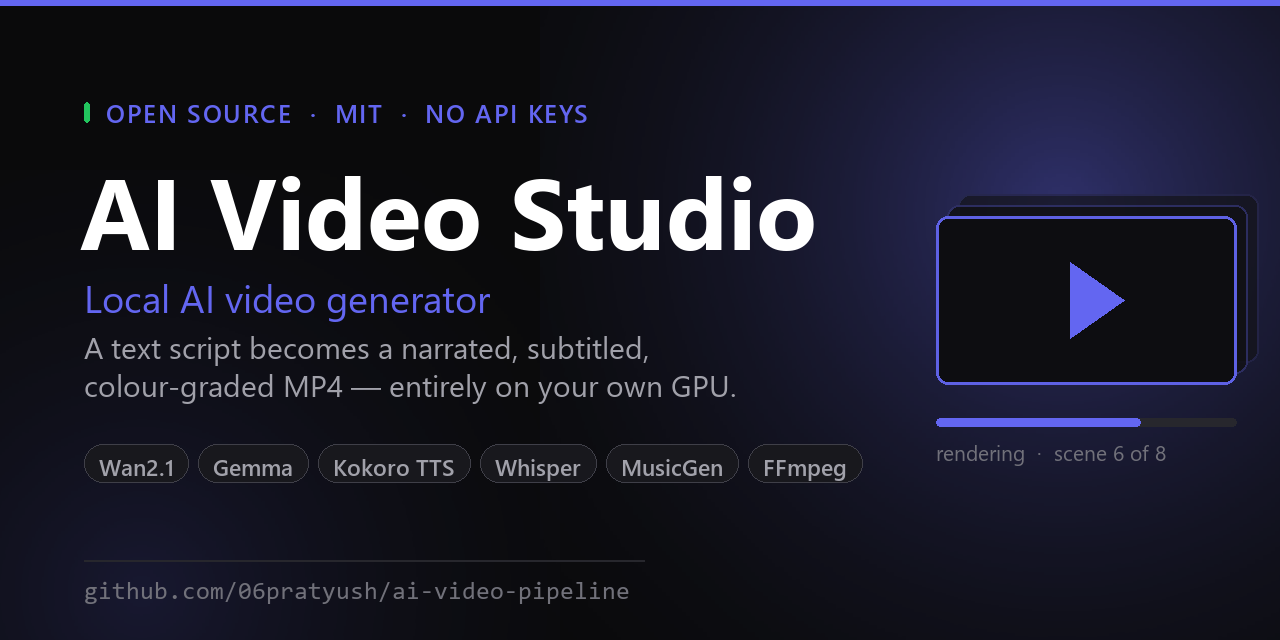
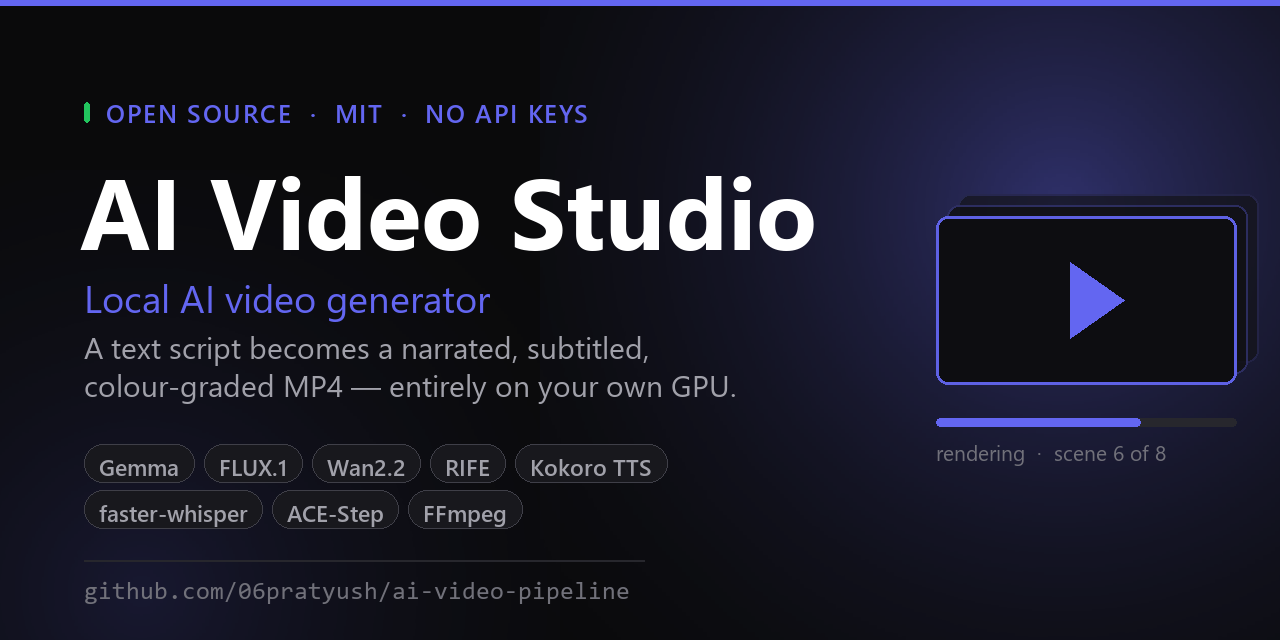
Bring the repository's public face up to v2
v2 changed the models, the quality path and what a render costs, but only the
top of the README was rewritten to match. Everything a visitor meets before the
README - the description, the topics, the social card, the release page - and
everything below the fold in the README still described v1.

The worst of it was not the stale model names. The install section and "What it
does" both promised a 5-15 minute render, three screens below a table in the
same file measuring 2 h 35 min for the sample film. The download filenames were
2.0.0 and three of the five matched no asset of any release.

In the README: the card is now the cover image; the badge, footer and download
block match the shipped 2.0.1; "Pro Quality Layer" and the Quality Settings
table carry the v2 stages with their measured costs; render time is the figure
this project actually measured. MusicGen is described as demoted to a fallback
rather than removed, because music_client.py says exactly that and
musicgen_client.py is still there.

The new "Future work" section is the part worth reviewing. Four areas - Skills
for AI, styles and looks, image generation, video generation - each a table of
what is wanted against why it is still open, citing GAP-05, GAP-08 and GAP-09
and the defects behind them: Kontext defending the reference framing, digits
lost in long numerals, the prop that drifted colour, the 4.8 Hz camera push
that cancelled RIFE. Nothing in it is aspirational; every line is a limitation
[…]

Changed region(s): [[0.0625, 0.6875, 0.5625, 0.8438], [0.5938, 0.7188, 0.6875, 0.75]]

diff --git a/.github/social-preview.py b/.github/social-preview.py
@@ -1,6 +1,13 @@
 #!/usr/bin/env python
 # -*- coding: utf-8 -*-
-"""Render the GitHub social preview card for AI Video Studio (1280x640)."""
+"""Render the AI Video Studio brand card (1280x640).
+
+One image, two jobs: it is the GitHub social preview (Settings -> General ->
+Social preview, which has no API, so the upload stays manual) and the README
+cover. Keeping both from one generator means the model chips can never
+disagree with each other, only with the pipeline - and the pipeline is the
+thing this file is edited from.
+"""
 import os
 import sys
 from PIL import Image, ImageDraw, ImageFont
@@ -132,11 +139,14 @@ d.text((X, 364), "colour-graded MP4 \u2014 entirely on your own GPU.",
        font=f_sub2, fill=GREY)
 
 # model chips
-chips = ["Wan2.1", "Gemma", "Kokoro TTS", "Whisper", "MusicGen", "FFmpeg"]
+# The v2 lineup, in pipeline order. Two rows at this font size; the wrap
+# below keeps them clear of the video motif column.
+chips = ["Gemma", "FLUX.1", "Wan2.2", "RIFE", "Kokoro TTS",
+         "faster-whisper", "ACE-Step", "FFmpeg"]
 cx, cy = X, 444
 for c in chips:
     w = int(d.textlength(c, font=f_chip)) + 30
-    if cx + w > 910:                      # wrap before the video motif column
+    if cx + w > 790:                      # wraps 5 + 3, well clear of the motif at 936
         cx, cy = X, cy + 46
     d.rounded_rectangle([cx, cy, cx + w, cy + 38], radius=19,
                         fill=(24, 24, 29, 255), outline=(63, 63, 72, 255), width=1)

diff --git a/README.md b/README.md
@@ -1,6 +1,10 @@
 <div align="center">
 
-<img src="https://img.shields.io/badge/AI%20VIDEO%20STUDIO-2.0.0-6366f1?style=for-the-badge&labelColor=0a0a0b" alt="AI Video Studio v2.0.0" />
+<img src=".github/social-preview.png" alt="AI Video Studio — a local AI video generator. A text script becomes a narrated, subtitled, colour-graded MP4, entirely on your own GPU. Gemma, FLUX.1, Wan2.2, RIFE, Kokoro TTS, faster-whisper, ACE-Step, FFmpeg." />
+
+<br>
+
+<img src="https://img.shields.io/badge/AI%20VIDEO%20STUDIO-2.0.1-6366f1?style=for-the-badge&labelColor=0a0a0b" alt="AI Video Studio v2.0.1" />
 
 # AI Video Studio
 
@@ -27,6 +31,7 @@ Your machine is the only computer in the loop.*
 [**Quick Start**](#quick-start) &nbsp;·&nbsp;
 [**Skills**](#skills) &nbsp;·&nbsp;
 [**Architecture**](#architecture) &nbsp;·&nbsp;
+[**Future work**](#future-work) &nbsp;·&nbsp;
 [**FAQ**](#faq) &nbsp;·&nbsp;
 [**Contributing**](CONTRIBUTING.md) &nbsp;·&nbsp;
 [**Issues**](https://github.com/06pratyush/ai-video-pipeline/issues)
@@ -59,7 +64,7 @@ assembles the result.
 | **Use it for** | YouTube explainers · TikTok / Reels / Shorts · documentary narration · product demos · tutorials · news recaps |
 | **Runs on** | Windows 10/11 · Ubuntu 22.04+ · macOS 12+ · NVIDIA GPU with 8 GB VRAM — v2 is built and tested on an RTX 4060 **laptop** |
 | **Costs** | Nothing — MIT licensed, no account, no metering, no telemetry |
-| **Docs** | [Architecture](#architecture) · [Skills](#skills) · [Build from source](#build-from-source) · [Troubleshooting](#troubleshooting) · [FAQ](#faq) · [Contributing](CONTRIBUTING.md) · [Review & merge policy](REVIEW_AND_MERGE.md) |
+| **Docs** | [Architecture](#architecture) · [Skills](#skills) · [Build from source](#build-from-source) · [Troubleshooting](#troubleshooting) · [Future work](#future-work) · [FAQ](#faq) · [Contributing](CONTRIBUTING.md) · [Review & merge policy](REVIEW_AND_MERGE.md) |
 
 ---
 
@@ -187,9 +192,9 @@ Auto-versioning per render.
 <td width="33%" valign="top">
 
 ### Pro Quality Layer
-Whisper subtitles · MusicGen score  
-30fps interpolation · 2× upscaling  
-Cinematic color grading
+Word-synced captions · ACE-Step score  
+RIFE 48 fps · Real-ESRGAN 2×  
+Cinematic colour grading
 
 </td>
 </tr>
@@ -199,7 +204,10 @@ Cinematic color grading
 
 ## What it does
 
-Write a script. Pick a Skill. Hit Generate. Five to fifteen minutes later you have a finished MP4 with narration, visuals, music, subtitles, and color grading — ready to post.
+Write a script. Pick a Skill. Hit Generate. You get a finished MP4 with narration, visuals, music,
+word-synced captions and colour grading — ready to post. How long that takes is the video model's
+cost, not the app's: about **16 minutes** for a 2-scene project and **2 h 35 min** for a 13-scene
+film on an RTX 4060 Laptop.
 
 ```
    ┌───────────────────┐
@@ -253,21 +261,22 @@ Write a script. Pick a Skill. Hit Generate. Five to fifteen minutes later you ha
 ### Windows
 NSIS installer or portable .exe
 ```
-AI-Video-Studio-2.0.0-x64.exe
+AI-Video-Studio-2.0.1-x64.exe
+AI-Video-Studio-2.0.1-x64-portable.exe
 ```
 
 ### Linux
 AppImage (universal) or .deb
 ```
-AI-Video-Studio-2.0.0-x64.AppImage
-AI-Video-Studio-2.0.0-x64.deb
+AI-Video-Studio-2.0.1-x86_64.AppImage
+AI-Video-Studio-2.0.1-amd64.deb
 ```
 
 ### macOS
 DMG for Apple Silicon or Intel
 ```
-AI-Video-Studio-2.0.0-arm64.dmg
-AI-Video-Studio-2.0.0-x64.dmg
+AI-Video-Studio-2.0.1-arm64.dmg
+AI-Video-Studio-2.0.1-x64.dmg
 ```
 
 </td>
@@ -284,7 +293,9 @@ AI-Video-Studio-2.0.0-x64.dmg
 17:00  ████████████████████  Ready
 ```
 
-After that, each video render takes **5–15 minutes**.
+After that, render time is set by the video model, not the install: a 2-scene project is about
+**16 minutes** and a 13-scene, 77-second film about **2 h 35 min** on an RTX 4060 Laptop. See
+[the measured breakdown](#measured-on-an-rtx-4060-laptop-8-gb-vram-16-gb-ram).
 
 </td>
 </tr>
@@ -365,10 +376,15 @@ The Render tab exposes four toggles independent of the Skill:
 
 | Toggle | Backend Module | Cost |
 |--------|----------------|------|
-| **Subtitles**          | faster-whisper transcription → FFmpeg subtitle burn | ~10s per minute of audio |
-| **Background Music**   | MusicGen mood-matched composition + auto-ducking mix | ~30s per scene |
-| **Frame Interpolation** | FFmpeg minterpolate (RIFE-compatible swap-in) | +30% render time |
-| **Upscaling**          | FFmpeg super2xbr+lanczos (Real-ESRGAN swap-in) | +20% render time |
+| **Subtitles**           | faster-whisper word timestamps (GPU) → burned-in ASS, active word highlighted | seconds for a whole film |
+| **Background Music**    | ACE-Step 3.5B (GPU), mood-matched, ducked under the voice, mixed to −14 LUFS | ~35–40 s per 80 s of audio |
+| **Frame Interpolation** | RIFE 4.9 in ComfyUI (GPU), per clip, 24 → 48 fps | 12–39 s per clip |
+| **Upscaling**           | Real-ESRGAN x2plus in ComfyUI (GPU) | ~7 min per scene |
+
+All four run on the GPU in v2. The CPU paths they replaced — `minterpolate` and `super2xbr` — are
+gone from the render path, and MusicGen is kept only as a fallback behind ACE-Step, because its
+weights are CC-BY-NC and so cannot be monetised. `scripts/doctor.py` proves which device each
+stage actually runs on.
 
 Skills auto-enable some toggles by default (e.g. Social Short turns on subtitles because mobile viewers watch muted).
 
@@ -528,6 +544,70 @@ Open an issue on GitHub if you hit a symptom not covered above — include OS, G
 
 ---
 
+## Future work
+
+v2 renders a finished film on an 8 GB laptop GPU. What it does not yet have is *range*: one
+keyframe engine, one video model, seven Skills, and one look per Skill. The four areas below are
+where the project is deliberately unfinished, and where a contribution has the most leverage.
+Every limitation named here is a real, reproduced one — the ones marked `GAP-nn` are tracked in
+[CONTEXT.md](CONTEXT.md), this project's engineering log.
+
+### Skills for AI
+
+A Skill is the preset that decides the whole look and feel of a render: prompt template, voice,
+pacing, music mood, post chain. There are seven, all plain JSON in `app/skills/`, so this is the
+one area that needs no Python at all.
+
+| Wanted | Why it is open |
+|---|---|
+| **More Skills** | Interview, podcast-to-video, audiobook chapter, recipe, sports recap, lecture, devlog. One JSON file each — copy the nearest and change it |
+| **Skills that hold a cast** | The v2 story format already renders a two-hander, with a per-scene `voice` and silent beats that keep their slot on the timeline. The Skill layer cannot express any of it, so dialogue is reachable only by hand-writing a story file |
+| **Installable Skill packs** | A folder or URL of Skills, validated against a published schema at load, so a look can be shared without a pull request |
+| **Captions per Skill** | Font, size, position and highlight colour live in the story file today, not in the Skill |
+| **Model-aware prompt templates** | The same template is sent to FLUX schnell and FLUX Kontext, which want different wording — see *Image generation* below |
+
+### Styles and looks
+
+Everything between the rendered clip and the finished file: grade, grain, framing, type.
+
+| Wanted | Why it is open |
+|---|---|
+| **Grades as data** | The grade is FFmpeg `curves` + `eq` written into the merger. Moving presets into files, and supporting a 3D LUT (`lut3d`, a `.cube` file), makes a look a shareable asset rather than a code change |
+| **Film emulation** | Grain, halation, bloom, vignette, gate weave — each a small, independently testable filter stage |
+| **Caption placement per scene** | `GAP-08`. Caption height is one story-level constant, so a piece that cuts between wide shots and tight close-ups has a single compromise position; at the height that suited a reference short, the band crossed an actor's eyes in every close-up. Deriving it from where the face is would close this |
+| **A compositing stage** | There is none, and this is the largest missing capability in the edit path. A 5B video model does not render designed overlays, so lower thirds, titles, callouts, logos and end cards cannot be produced at all today |
+
+### Image generation
+
+Keyframes and character sheets — FLUX.1 schnell for speed, FLUX.1 Kontext dev for consistency.
+This stage decides whether a character is still the same person in scene 20.
+
+| Wanted | Why it is open |
+|---|---|
+| **Shot-aware prompt building** | Kontext defends the reference sheet's *framing* as well as its identity. Eight scenes of the sample dialogue short came back at the character sheet's distance and only moved after a hand-written per-scene `keyframe` prompt naming the shot. A builder that knows the shot size removes that manual step |
+| **Text that survives diffusion** | Long numerals lose digits: a `$165.00` price sticker came back as `$16.00` on one of five seeds tried. The current fix is a pinned seed per insert. Rendering small text in post, or routing text inserts to a model that handles glyphs, would be a real fix |
+| **Props, not just characters** | Reference conditioning covers the cast; a prop drifts. A wine bottle alternated between white and red across four consecutive shots until its colour was pinned by hand in every prompt |
+| **More engines** | SDXL, SD3.5, Qwen-Image behind the same ComfyUI client — and above all a **fully commercial-licensed consistency path**, because the best one today, FLUX.1 Kontext dev, is non-commercial and the app has to flag it |
+| **Keep the model resident** | Keyframes are the slowest stage on a 16 GB machine because of RAM, not the GPU: ComfyUI cannot cache FLUX and T5 between prompts and reloads them every time |
+
+### Video generation
+
+Animating each keyframe — Wan2.2 TI2V-5B, 4-bit GGUF, through ComfyUI.
+
+| Wanted | Why it is open |
+|---|---|
+| **Render at the model's own resolution** | `GAP-09`, and the dominant quality lever. Clips default to 480×832 while Wan2.2 TI2V-5B is trained at 704×1280, so the stage discards detail the keyframe stage already paid for. At full resolution a bottle label reads correctly and fingers resolve individually — and two minutes of film costs about twelve hours on an 8 GB card. Block swapping, attention kernels and an offload strategy measured per GPU are what make that affordable |
+| **More video models** | Wan2.2 14B, LTX-Video, HunyuanVideo, CogVideoX behind one client interface, with VRAM-aware routing choosing between them |
+| **Shots longer than one clip** | Chaining a clip's last frame into the next clip's first frame lets a shot run past the model's frame budget without a cut |
+| **Camera motion from the model** | v2 removed the synthetic camera push from the edit stage: quantised to whole pixels it produced a 4.8 Hz tick that cancelled the RIFE interpolation the smooth stage spends ten minutes producing. Camera movement belongs in the video model's conditioning, not in a filter |
+| **Non-NVIDIA hardware** | An AMD ROCm path, and Apple Silicon. Everything today assumes CUDA |
+| **Cancel inside a clip** | `GAP-05`. A cancel is observed at scene boundaries, so one long clip must finish first |
+
+Pick one and [open an issue](https://github.com/06pratyush/ai-video-pipeline/issues/new/choose)
+before starting — for work this size, agreeing the design first is the step that saves a rewrite.
+
+---
+
 ## Contributing
 
 Contributions are welcome, and the full guide lives in **[CONTRIBUTING.md](CONTRIBUTING.md)** —
@@ -543,9 +623,12 @@ Good places to start, roughly easiest first:
 | **Colour grades** | Extra FFmpeg post-processing presets in `pipeline/ffmpeg_merger.py` |
 | **Docs & troubleshooting** | Symptoms you hit that [Troubleshooting](#troubleshooting) does not cover |
 | **Tests** | Automated coverage is a Phase 9 goal; `app/backend/tests/` is the beachhead |
-| **Real-ESRGAN / RIFE nodes** | Native ComfyUI node integrations to replace the FFmpeg fallbacks |
+| **Colour LUTs** | `.cube` support so a look is a file, not a code change — see [Future work](#future-work) |
 | **AMD ROCm support** | A working Wan2.2 path for non-NVIDIA GPUs |
 | **Mobile companion** | Trigger and monitor renders from a phone |
+
+Larger, open-ended work — new Skills, new looks, other keyframe and video models — is set out in
+**[Future work](#future-work)**, with the reason each one is still open.
 
 Before starting anything large, [open an issue](https://github.com/06pratyush/ai-video-pipeline/issues/new/choose)
 so the design can be agreed first — that is the step that most often saves a rewrite.
@@ -692,6 +775,6 @@ Built on the shoulders of these excellent open-source projects:
 
 <br><br>
 
-<sub>Released under the MIT License · v2.0.0</sub>
+<sub>Released under the MIT License · v2.0.1</sub>
 
 </div>

diff --git a/CONTEXT.md b/CONTEXT.md
@@ -354,3 +354,15 @@
 - **Context Modifications:** v2.0.0 stays tagged without a release; v2.0.1 is the first tag expected to ship installers. Add real icons to app/frontend/build/ later and put the icon keys back.
 
 ---
+
+- **Timestamp:** 2026-11-26T19:40:07Z
+- **Trigger Event:** Pull Request (GitHub presentation), owner asked whether the repository's public face had been brought up to v2
+- **Author/Agent:** Claude Opus 5 for 06pratyush
+- **Target Subsystem:** `README.md`, `.github/social-preview.py`, `.github/social-preview.png`; and, outside git, the repository description, topics and the v2.0.1 release notes
+- **Intent:** The v2 work changed the models, the quality path and the measured cost of a render, but only the top of the README was rewritten to match. Everything a visitor meets before the README — the description, the topics, the social card, the release page — and everything below the fold in the README itself still described v1. Bring the whole public surface to v2 in one pass, give the README a cover image, and write the future-work section that says where contribution is actually wanted.
+- **Bugs Discovered:** (1) The repository description named Wan2.1, Kokoro TTS and Whisper — two of the three stages v2 replaced — and the topic list carried `wan2-1` and `musicgen` while naming neither `wan2-2`, `flux`, `ace-step` nor `image-to-video`; at exactly 20 topics, GitHub's cap, this could only be a swap. (2) The social preview card's model chips read `Wan2.1 · Gemma · Kokoro TTS · Whisper · MusicGen · FFmpeg`. (3) The README contradicted itself: the v2 section states RIFE on the GPU and ACE-Step, then "Pro Quality Layer" claims "MusicGen score · 30fps interpolation" and the Quality Settings table lists `minterpolate` and `super2xbr` as the backend modules. (4) Both the install section and "What it does" promised a 5–15 minute render, against the 2 h 35 min the same README measures three screens above — the single most misleading claim on the page. (5) The download filenames were `2.0.0` and three of the five were wrong in form as well (`-x64.AppImage`, `-x64.deb`), matching no asset of any release. (6) The version badge and the footer read 2.0.0 against a shipped 2.0.1. (7) The Contributing table still asked for "Native ComfyUI node integrations to replace the FFmpeg fallbacks", which v2 did. (8) The v2.0.1 release body was the auto-generated one line about a workflow fix, on the page the README's Download button lands on.
+- **Fixes Applied:** (1) Description rewritten to the v2 lineup; topics swapped `wan2-1`→`wan2-2`, `musicgen`→`flux`, and `react`/`fastapi` dropped for `ace-step` and `image-to-video`, staying at 20. (2) `social-preview.py` chips are the v2 pipeline in order, and the wrap threshold moved 910→790 so eight chips set as 5 + 3 rather than 6 + 2; the card is regenerated. (3) The card is now also the README cover image, which is why its docstring records that one file serves both jobs. (4) Stale cells and the Quality Settings table rewritten to the measured v2 figures, with a note that MusicGen is demoted to a fallback rather than removed — `music_client.py` says so in its own docstring and `musicgen_client.py` is still present. (5) Render time replaced with the measured 16 min / 2 h 35 min and linked to the breakdown. (6) Download block matched asset-for-asset against the v2.0.1 release. (7) Badge and footer to 2.0.1. (8) New `## Future work` section, four areas — Skills for AI, styles and looks, image generation, video generation — each a table of what is wanted against why it is still open, citing GAP-05, GAP-08 and GAP-09 and the reproduced defects behind them (Kontext defending the reference framing, digits lost in long numerals, the prop that drifted colour, the 4.8 Hz push that cancelled RIFE). Linked from the nav, the docs row and the Contributing table. (9) v2.0.1 release notes rewritten: what v2 is, the model table, the measured timings, the verified-platform caveat, and a download table.
+- **Verification:** The regenerated card was rendered and inspected at full size: 1280x640, 105 KB, chips 5 + 3, title-to-motif gap 119 px by the script's own collision check. Every number written into the README was taken from the v2 timing table in the same file or from `CONTEXT.md`, not restated from memory; every download filename was checked against `gh release view v2.0.1 --json assets`, and all eight now match. `grep` confirms no `2.0.0` string remains in the README outside the v1 column of the comparison table, and that `MusicGen`, `minterpolate` and `super2xbr` appear only where they are described as superseded or as a surviving fallback. The description and topics were read back from the API after writing: description matches, 20 topics, the four intended swaps present. The two new anchors (`#future-work`, `#measured-on-an-rtx-4060-laptop-8-gb-vram-16-gb-ram`) were derived from their headings by GitHub's slug rule. NOT verified: the README as GitHub renders it, and the cover image resolving from its relative path, neither of which can be checked before the branch is pushed; no code was touched, so no test run applies.
+- **Context Modifications:** No change to the stack, the gaps or any dependency — this entry records documentation and repository metadata only. GAP-05, GAP-08 and GAP-09 are now cited publicly in the README's future-work section, so the wording of those three gap entries is read by people outside the project and should be kept accurate when they change. One item remains outstanding and unchanged from the entry of 2026-11-07: the social preview card still has to be uploaded by hand through Settings → General → Social preview, for which GitHub exposes no API, so the regenerated card does not reach link previews until the owner uploads it. `v2.0.0` stays tagged without a release, as the preceding entry decided.
+
+---
